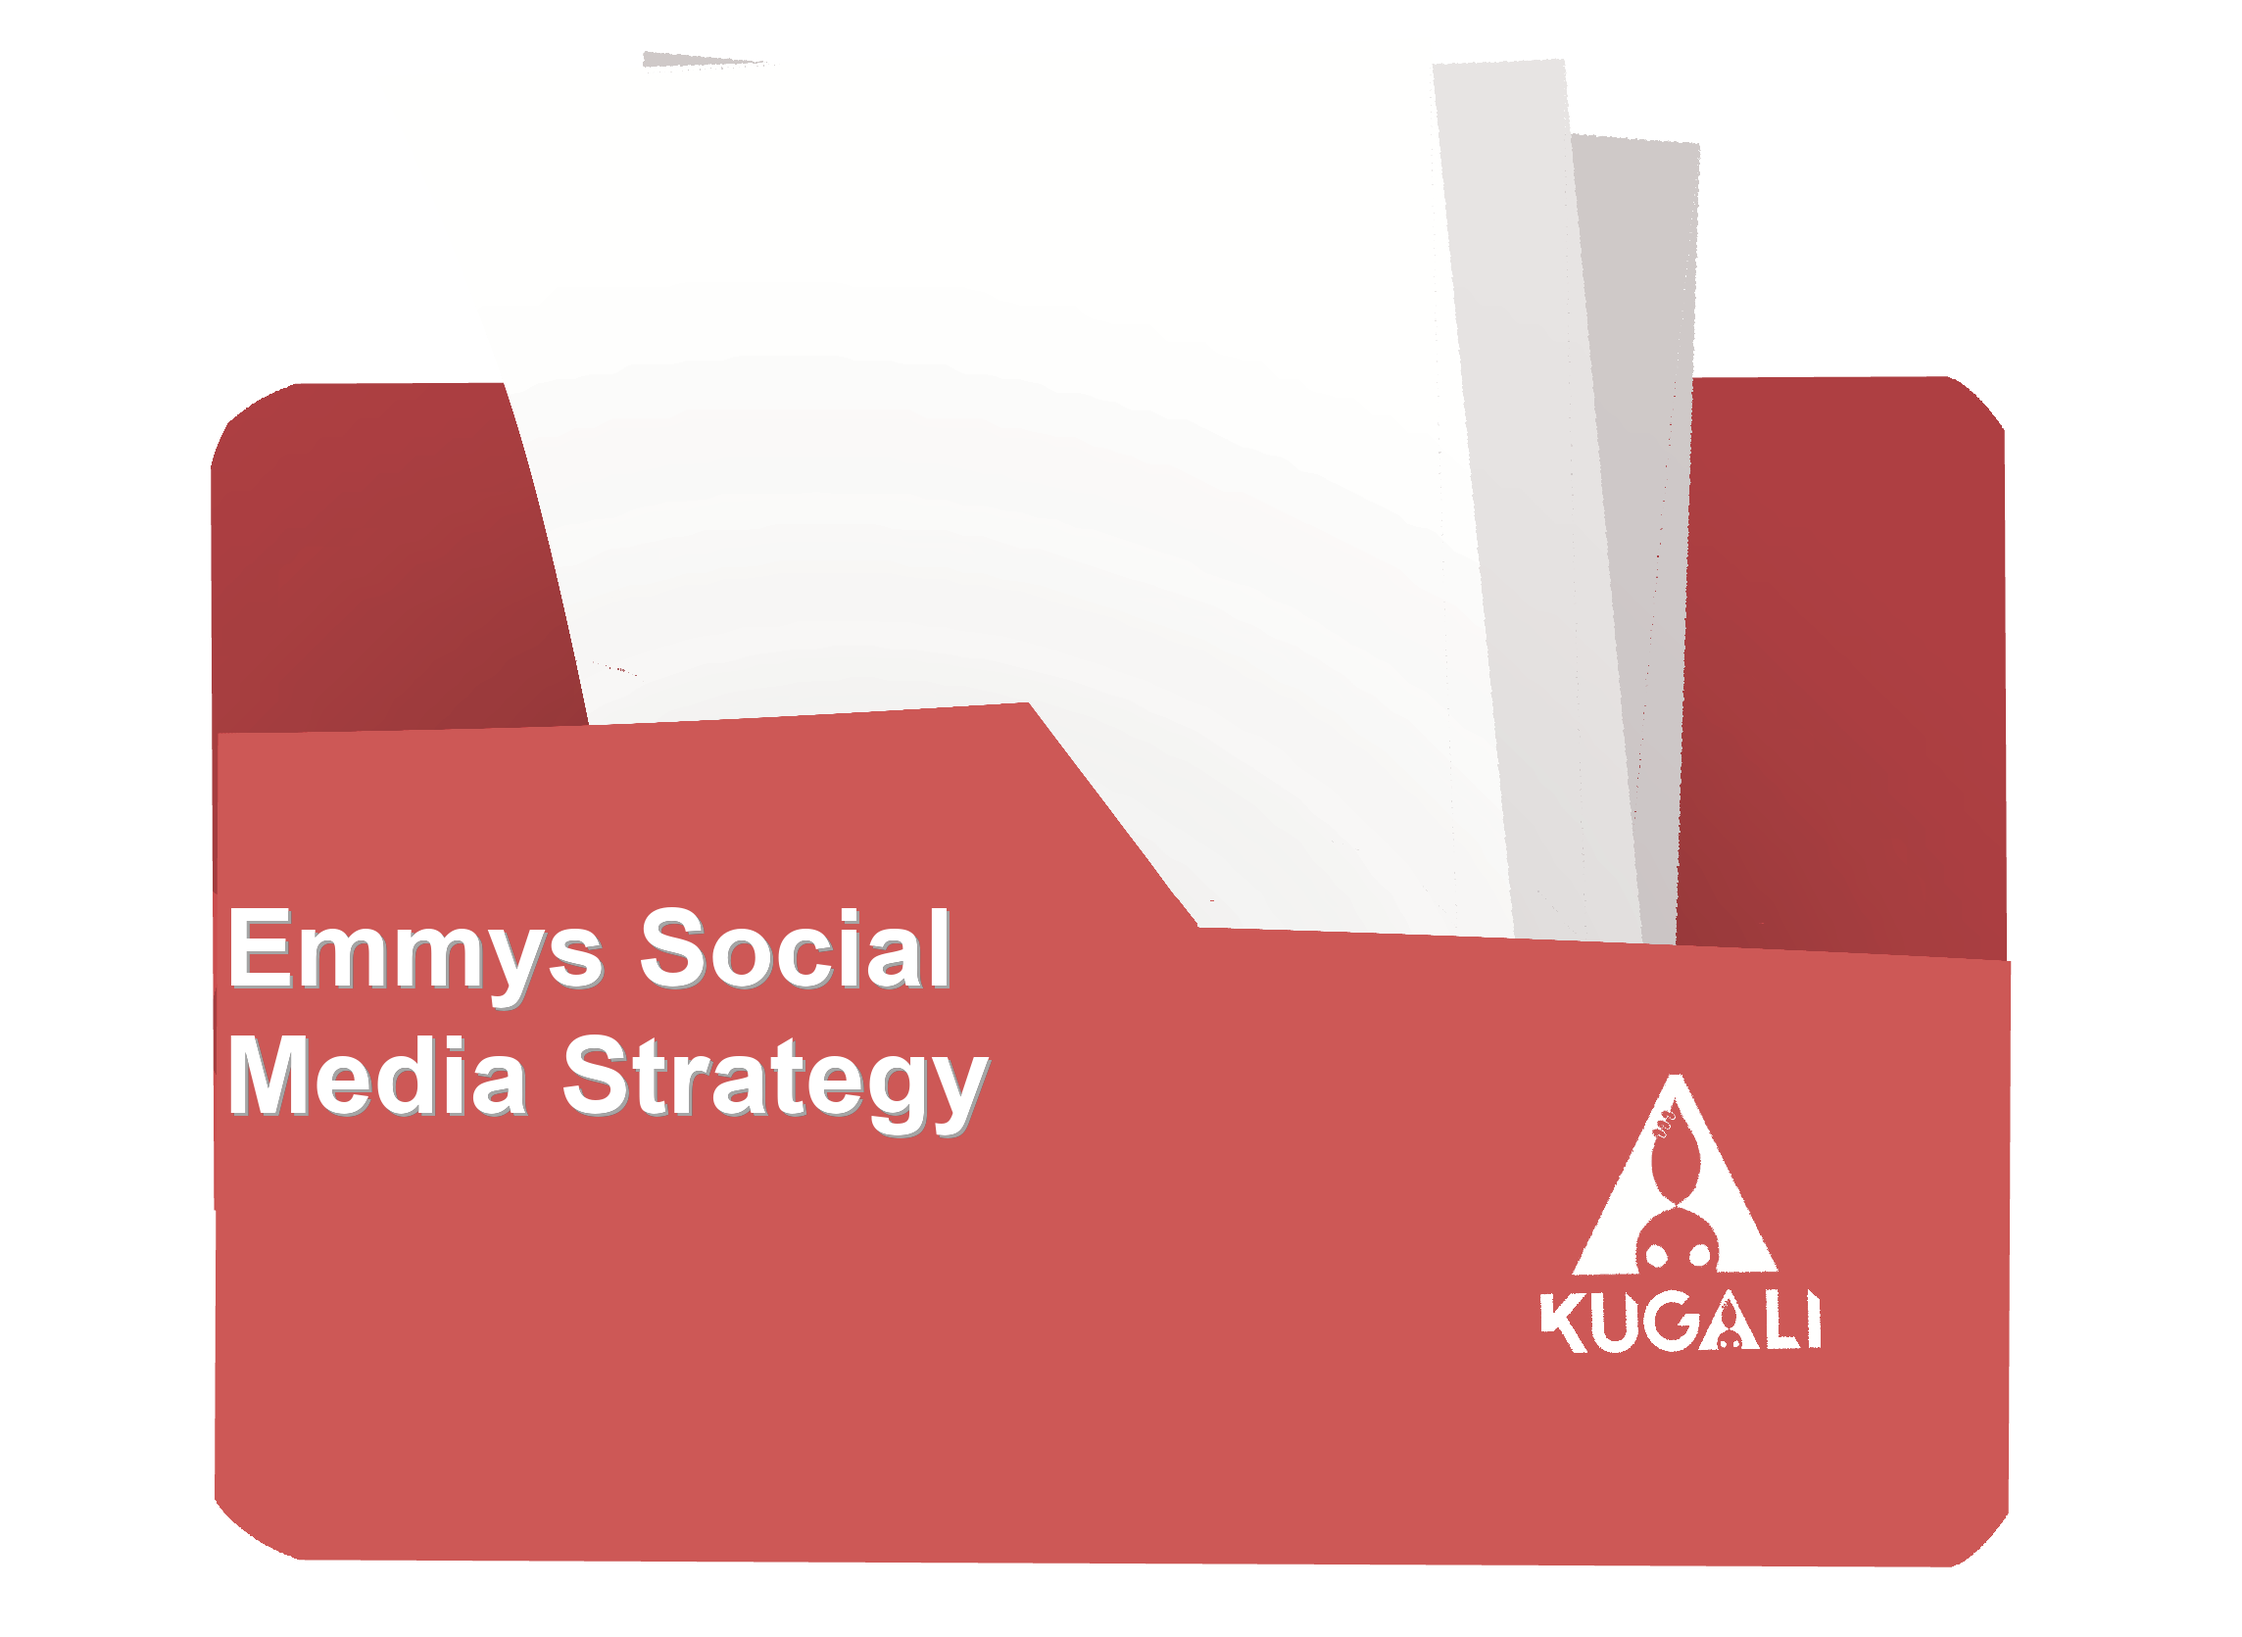
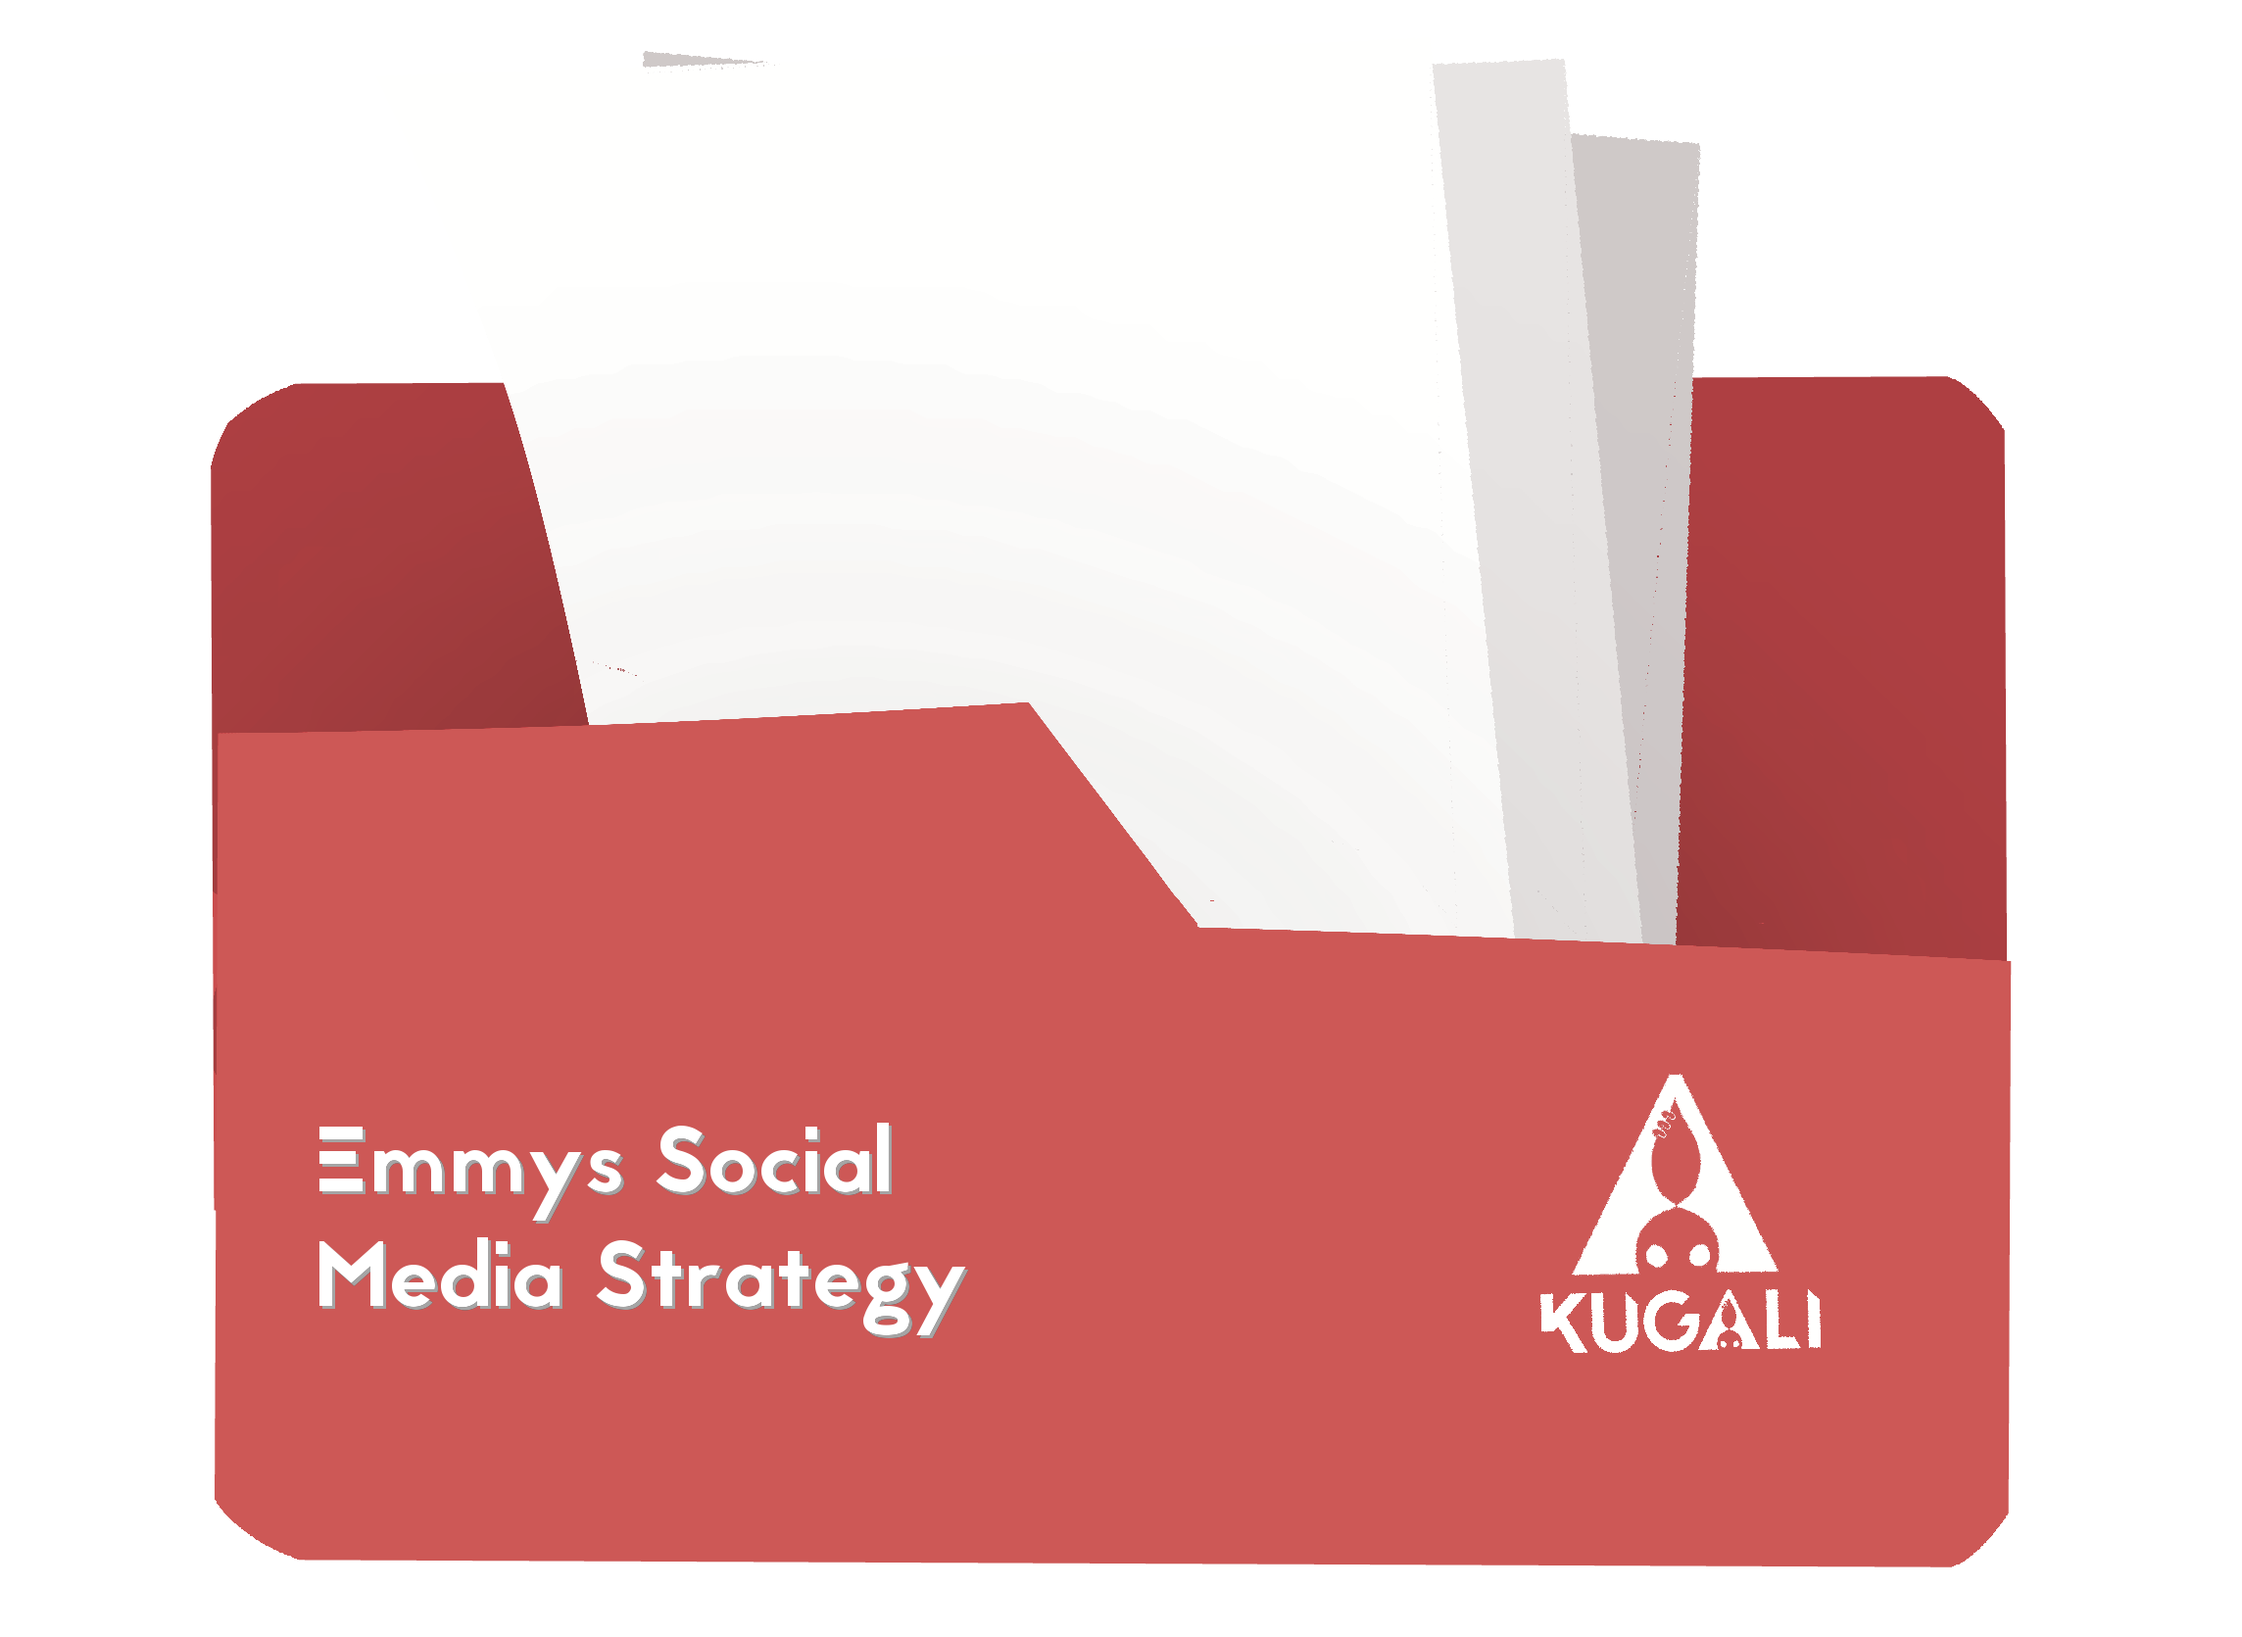
Ship Kugali card resize/font update, fix gallery empty-space, tune /work page
- Commit the previously-previewed Kugali Featured Campaigns update:
  bigger cards filling the row, bold title / regular subtitle split,
  Jaapokki Subtract font repositioned next to the logo
- Fix FilmstripGallery leaving empty trailing space when there are
  fewer images than fit the row (items now grow to fill available
  width, still scroll when there are enough images to overflow)
- Fix SlideGallery letterboxing non-16:9 images with visible empty
  margins - now crops to fill the frame edge-to-edge
- Add "IP Strategy & Field Marketing" to Kugali's Emmys subtitle
- /work page: move the quotes below the polaroid grid (above
  Additional Experience) and shrink them; shrink the "8 roles..."
  sticky note so it fits on one line at both breakpoints

Changed region(s): [[0.0931, 0.529, 0.4344, 0.8402]]

diff --git a/app/work/page.tsx b/app/work/page.tsx
@@ -30,21 +30,9 @@ export default function WorkPage() {
           <h1 className="font-display text-balance text-6xl uppercase leading-[0.9] tracking-tight text-ink sm:text-8xl">
             My Work
           </h1>
-          <span className="font-hand mt-4 inline-block max-w-xl -rotate-1 rounded-sm bg-accent px-6 py-4 text-2xl text-hero-ink shadow-lg sm:text-3xl">
+          <span className="font-hand mt-4 inline-block max-w-full -rotate-1 whitespace-nowrap rounded-sm bg-accent px-4 py-2.5 text-sm text-hero-ink shadow-lg sm:px-5 sm:py-3 sm:text-lg">
             8 roles, 16 experiences, 1 creative storytelling throughline.
           </span>
-
-          <div className="mt-10 grid grid-cols-1 gap-x-8 gap-y-6 sm:grid-cols-2">
-            {allQuotes.map((quote) => (
-              <blockquote key={quote.name} className="border-l-4 border-accent/60 pl-5">
-                <p className="text-base italic text-ink">&ldquo;{quote.text}&rdquo;</p>
-                <footer className="mt-2 text-xs text-ink/70">
-                  — <span className="text-accent">{quote.name}</span>
-                  {quote.role && <span className="text-accent">, {quote.role}</span>}, {quote.org}
-                </footer>
-              </blockquote>
-            ))}
-          </div>
 
           <div className="mt-14 grid grid-cols-2 gap-x-8 gap-y-14 lg:grid-cols-4">
             {projects.map((project) => {
@@ -89,6 +77,18 @@ export default function WorkPage() {
               </Link>
               );
             })}
+          </div>
+
+          <div className="mt-14 grid grid-cols-1 gap-x-8 gap-y-4 sm:grid-cols-2">
+            {allQuotes.map((quote) => (
+              <blockquote key={quote.name} className="border-l-4 border-accent/60 pl-4">
+                <p className="text-sm italic text-ink">&ldquo;{quote.text}&rdquo;</p>
+                <footer className="mt-1.5 text-xs text-ink/70">
+                  — <span className="text-accent">{quote.name}</span>
+                  {quote.role && <span className="text-accent">, {quote.role}</span>}, {quote.org}
+                </footer>
+              </blockquote>
+            ))}
           </div>
         </div>
       </section>

diff --git a/content/site.ts b/content/site.ts
@@ -54,6 +54,8 @@ export type Campaign = {
 export type SlideImage = {
   src: string;
   caption?: string;
+  /** Bold title shown above the caption. Only used by "cards" layout slides. */
+  title?: string;
   /** Defaults to "portrait" (phone-screenshot shaped). Use "video" for landscape stills. */
   aspect?: "portrait" | "video";
   /** Defaults to "image". Set to "video" to render an HTML5 <video> - src should point at an mp4. */
@@ -154,7 +156,7 @@ export const projects: Project[] = [
     slides: [
       {
         title: "The Emmys",
-        subtitle: "Daytime Emmy Awards - Iwájú, Disney × Kugali",
+        subtitle: "Daytime Emmy Awards - Iwájú, Disney × Kugali - IP Strategy & Field Marketing",
         layout: "filmstrip",
         images: [
           {
@@ -178,18 +180,22 @@ export const projects: Project[] = [
         images: [
           {
             src: "/images/campaigns/kugali-campaign-competitor-analysis.png",
+            title: "Competing IP / International IP Research",
             caption: "Comparing international animation studios' GTM strategies",
           },
           {
             src: "/images/campaigns/kugali-campaign-jollof-wars-pitch.png",
+            title: "IP / Pitch Strategy for Jollof Wars",
             caption: "Internal marketing strategy and positioning slides",
           },
           {
             src: "/images/campaigns/kugali-campaign-razorman-pitch.png",
+            title: "Pitch Strategy for Razorman",
             caption: "Producer-facing pitch research & slides",
           },
           {
             src: "/images/campaigns/kugali-campaign-emmys-social-strategy.png",
+            title: "Emmys Social Media Strategy",
             caption:
               "IP & festival releases research & strategy, as well as live day-of social media campaign - active posting",
           },

diff --git a/components/CampaignCardsGallery.tsx b/components/CampaignCardsGallery.tsx
@@ -10,9 +10,9 @@ export default function CampaignCardsGallery({ images }: { images: SlideImage[] 
 
   return (
     <>
-      <div className="grid grid-cols-2 gap-4 sm:flex sm:gap-3 sm:overflow-x-auto sm:pb-2">
+      <div className="grid grid-cols-2 gap-4 sm:grid-cols-4 sm:gap-6">
         {images.map((img, i) => (
-          <div key={img.src} className="flex flex-col sm:w-40 sm:flex-none">
+          <div key={img.src} className="flex flex-col">
             <button
               type="button"
               onClick={() => setOpenIndex(i)}
@@ -24,11 +24,16 @@ export default function CampaignCardsGallery({ images }: { images: SlideImage[] 
                 alt={img.caption ?? ""}
                 fill
                 className="object-contain p-1.5"
-                sizes="(min-width: 640px) 160px, 45vw"
+                sizes="(min-width: 640px) 23vw, 45vw"
               />
             </button>
+            {img.title && (
+              <p className="mt-2 hidden text-sm font-bold leading-snug text-beige sm:block">
+                {img.title}
+              </p>
+            )}
             {img.caption && (
-              <p className="mt-2 hidden text-xs font-bold leading-snug text-beige/70 sm:block">
+              <p className="hidden text-xs leading-snug text-beige/70 sm:block">
                 {img.caption}
               </p>
             )}

diff --git a/components/FilmstripGallery.tsx b/components/FilmstripGallery.tsx
@@ -35,7 +35,7 @@ export default function FilmstripGallery({ images }: { images: SlideImage[] }) {
             type="button"
             onClick={() => setOpenIndex(i)}
             aria-label={img.caption ? `Enlarge: ${img.caption}` : "Enlarge image"}
-            className="relative h-64 w-40 flex-none cursor-zoom-in sm:h-80 sm:w-56"
+            className="relative h-64 flex-1 shrink-0 basis-40 cursor-zoom-in sm:h-80 sm:basis-56"
           >
             {img.kind === "video" ? (
               <video

diff --git a/components/SlideGallery.tsx b/components/SlideGallery.tsx
@@ -33,7 +33,7 @@ export default function SlideGallery({ images }: { images: SlideImage[] }) {
           <EnlargeableImage
             src={current.src}
             alt={current.caption ?? ""}
-            className="object-contain"
+            className="object-cover"
             sizes="(min-width: 640px) 640px, 100vw"
           />
         )}
